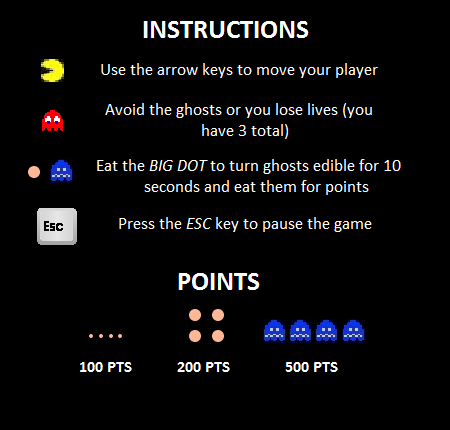
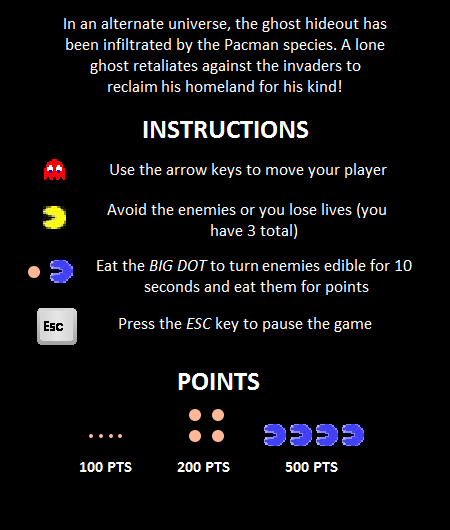
Modification of Instructions page

diff --git a/src/view/BoardView.java b/src/view/BoardView.java
@@ -476,7 +476,7 @@ public class BoardView extends JPanel{
 		MainMenu menu = new MainMenu();
 		MainMenuView menuGUI = new MainMenuView(menu, frame);
 		frame.setContentPane(menuGUI);
-		frame.setPreferredSize(new Dimension(450,460));
+		frame.setPreferredSize(new Dimension(450,560));
 		frame.pack();
 		frame.setVisible(true);
 		this.frame.dispose(); //close this frame

diff --git a/src/model/Namcap.java b/src/model/Namcap.java
@@ -24,7 +24,7 @@ public class Namcap {
 		MainMenu menu = new MainMenu();
 		MainMenuView menuGUI = new MainMenuView(menu, frame);
 		frame.setContentPane(menuGUI);
-		frame.setPreferredSize(new Dimension(450,460));
+		frame.setPreferredSize(new Dimension(450,560));
 		frame.pack();
 		frame.setVisible(true);
 	}
